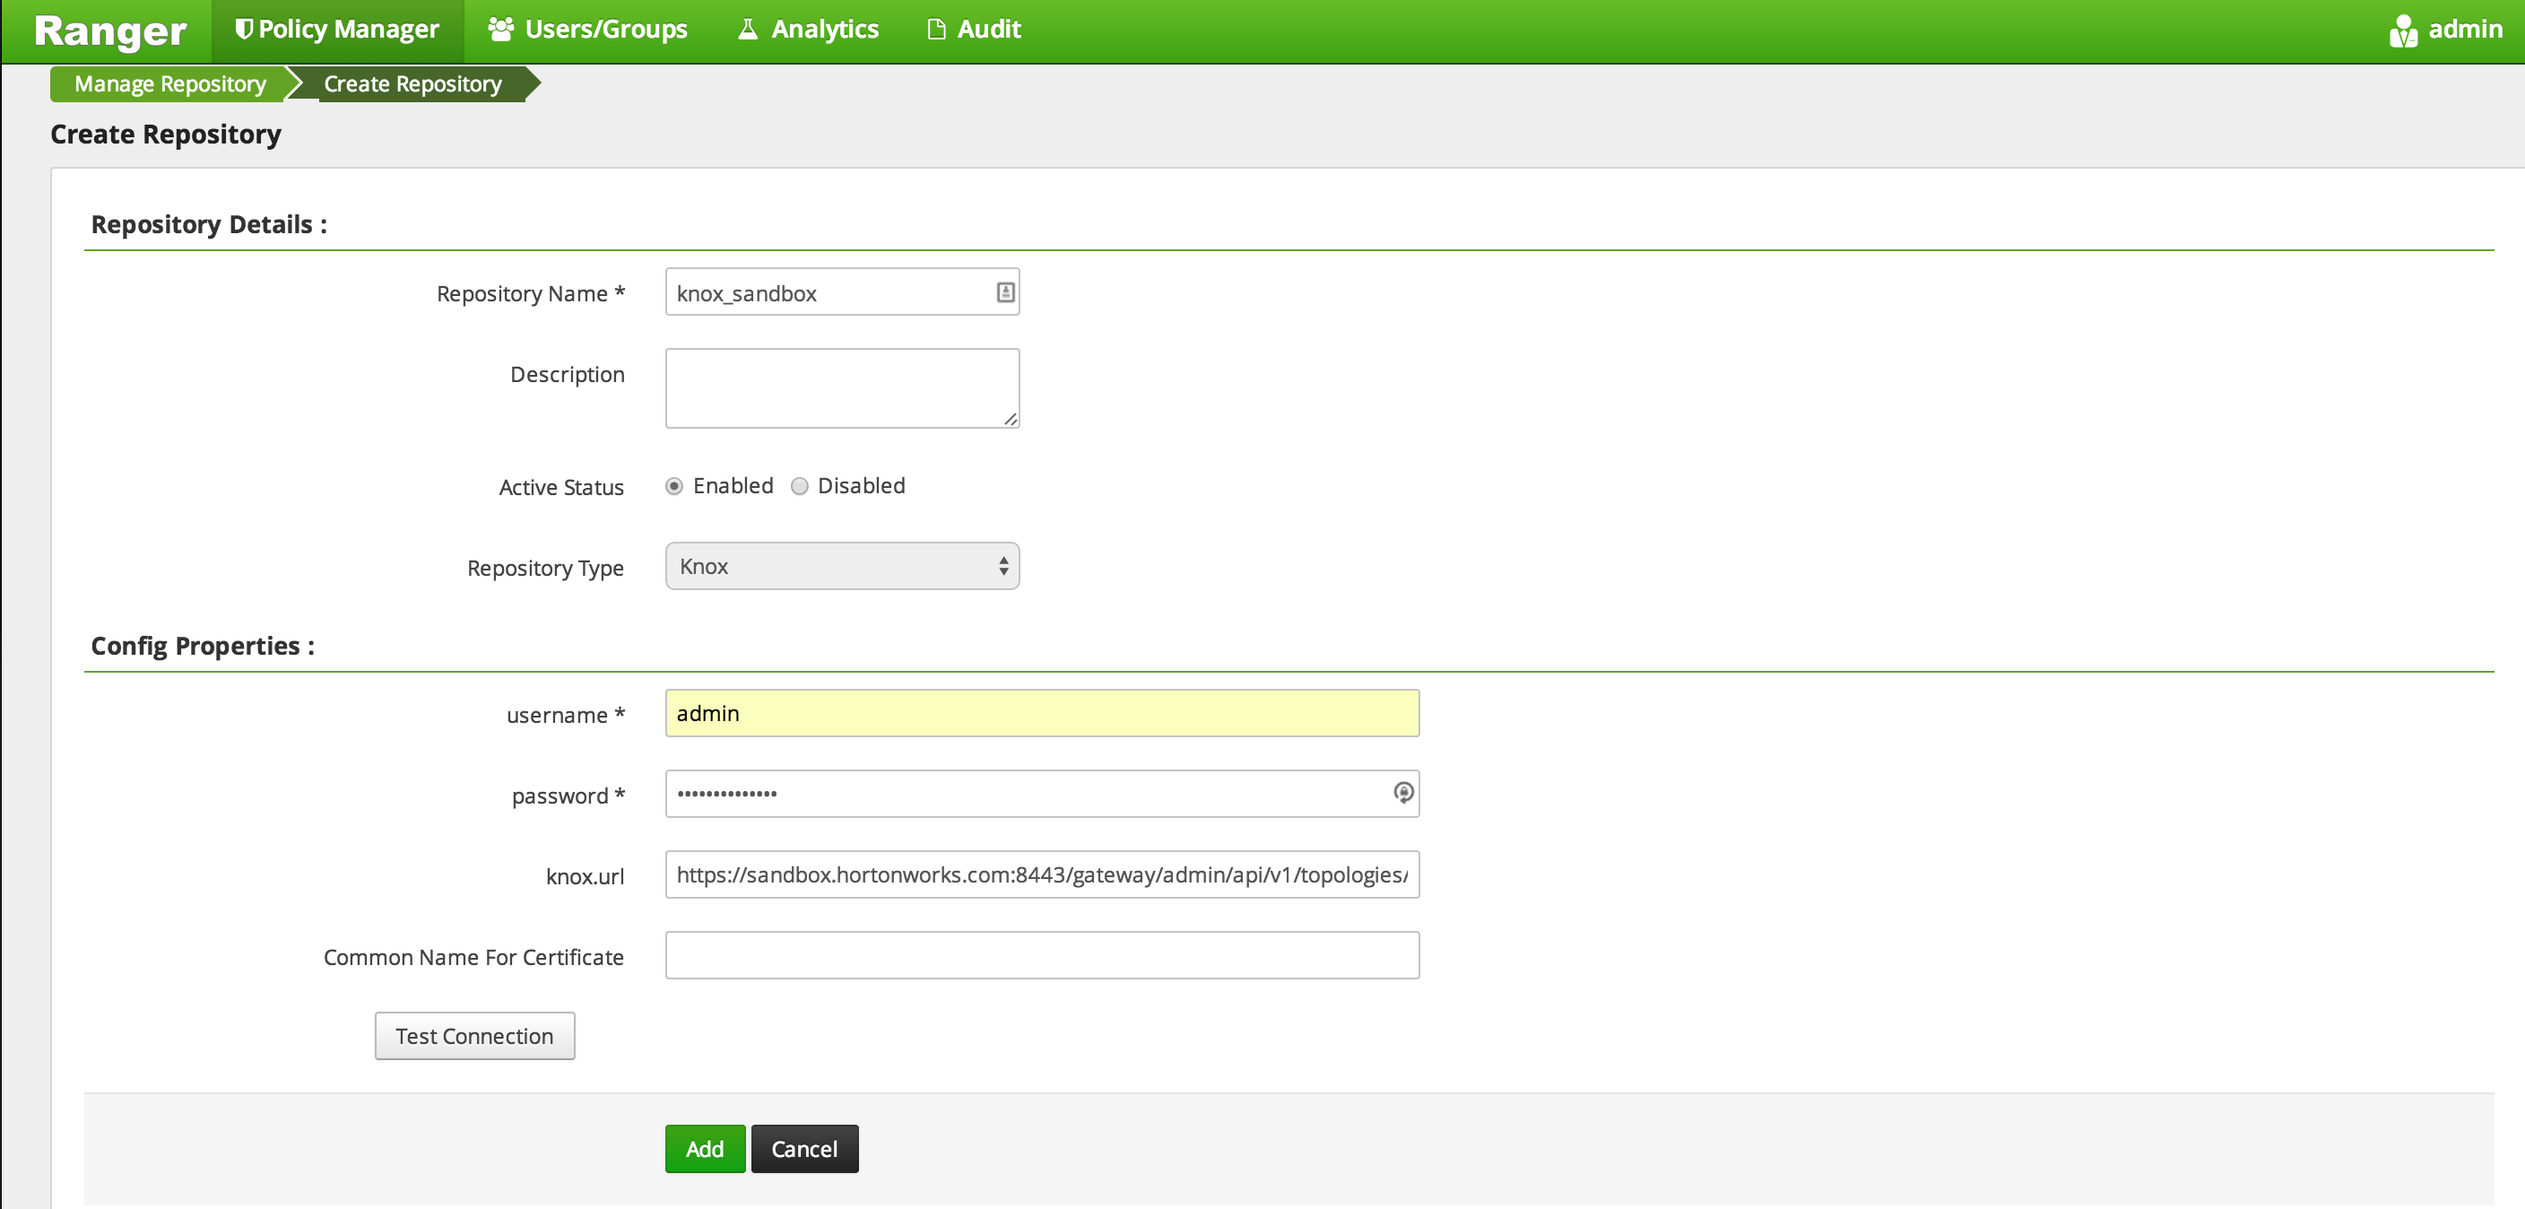
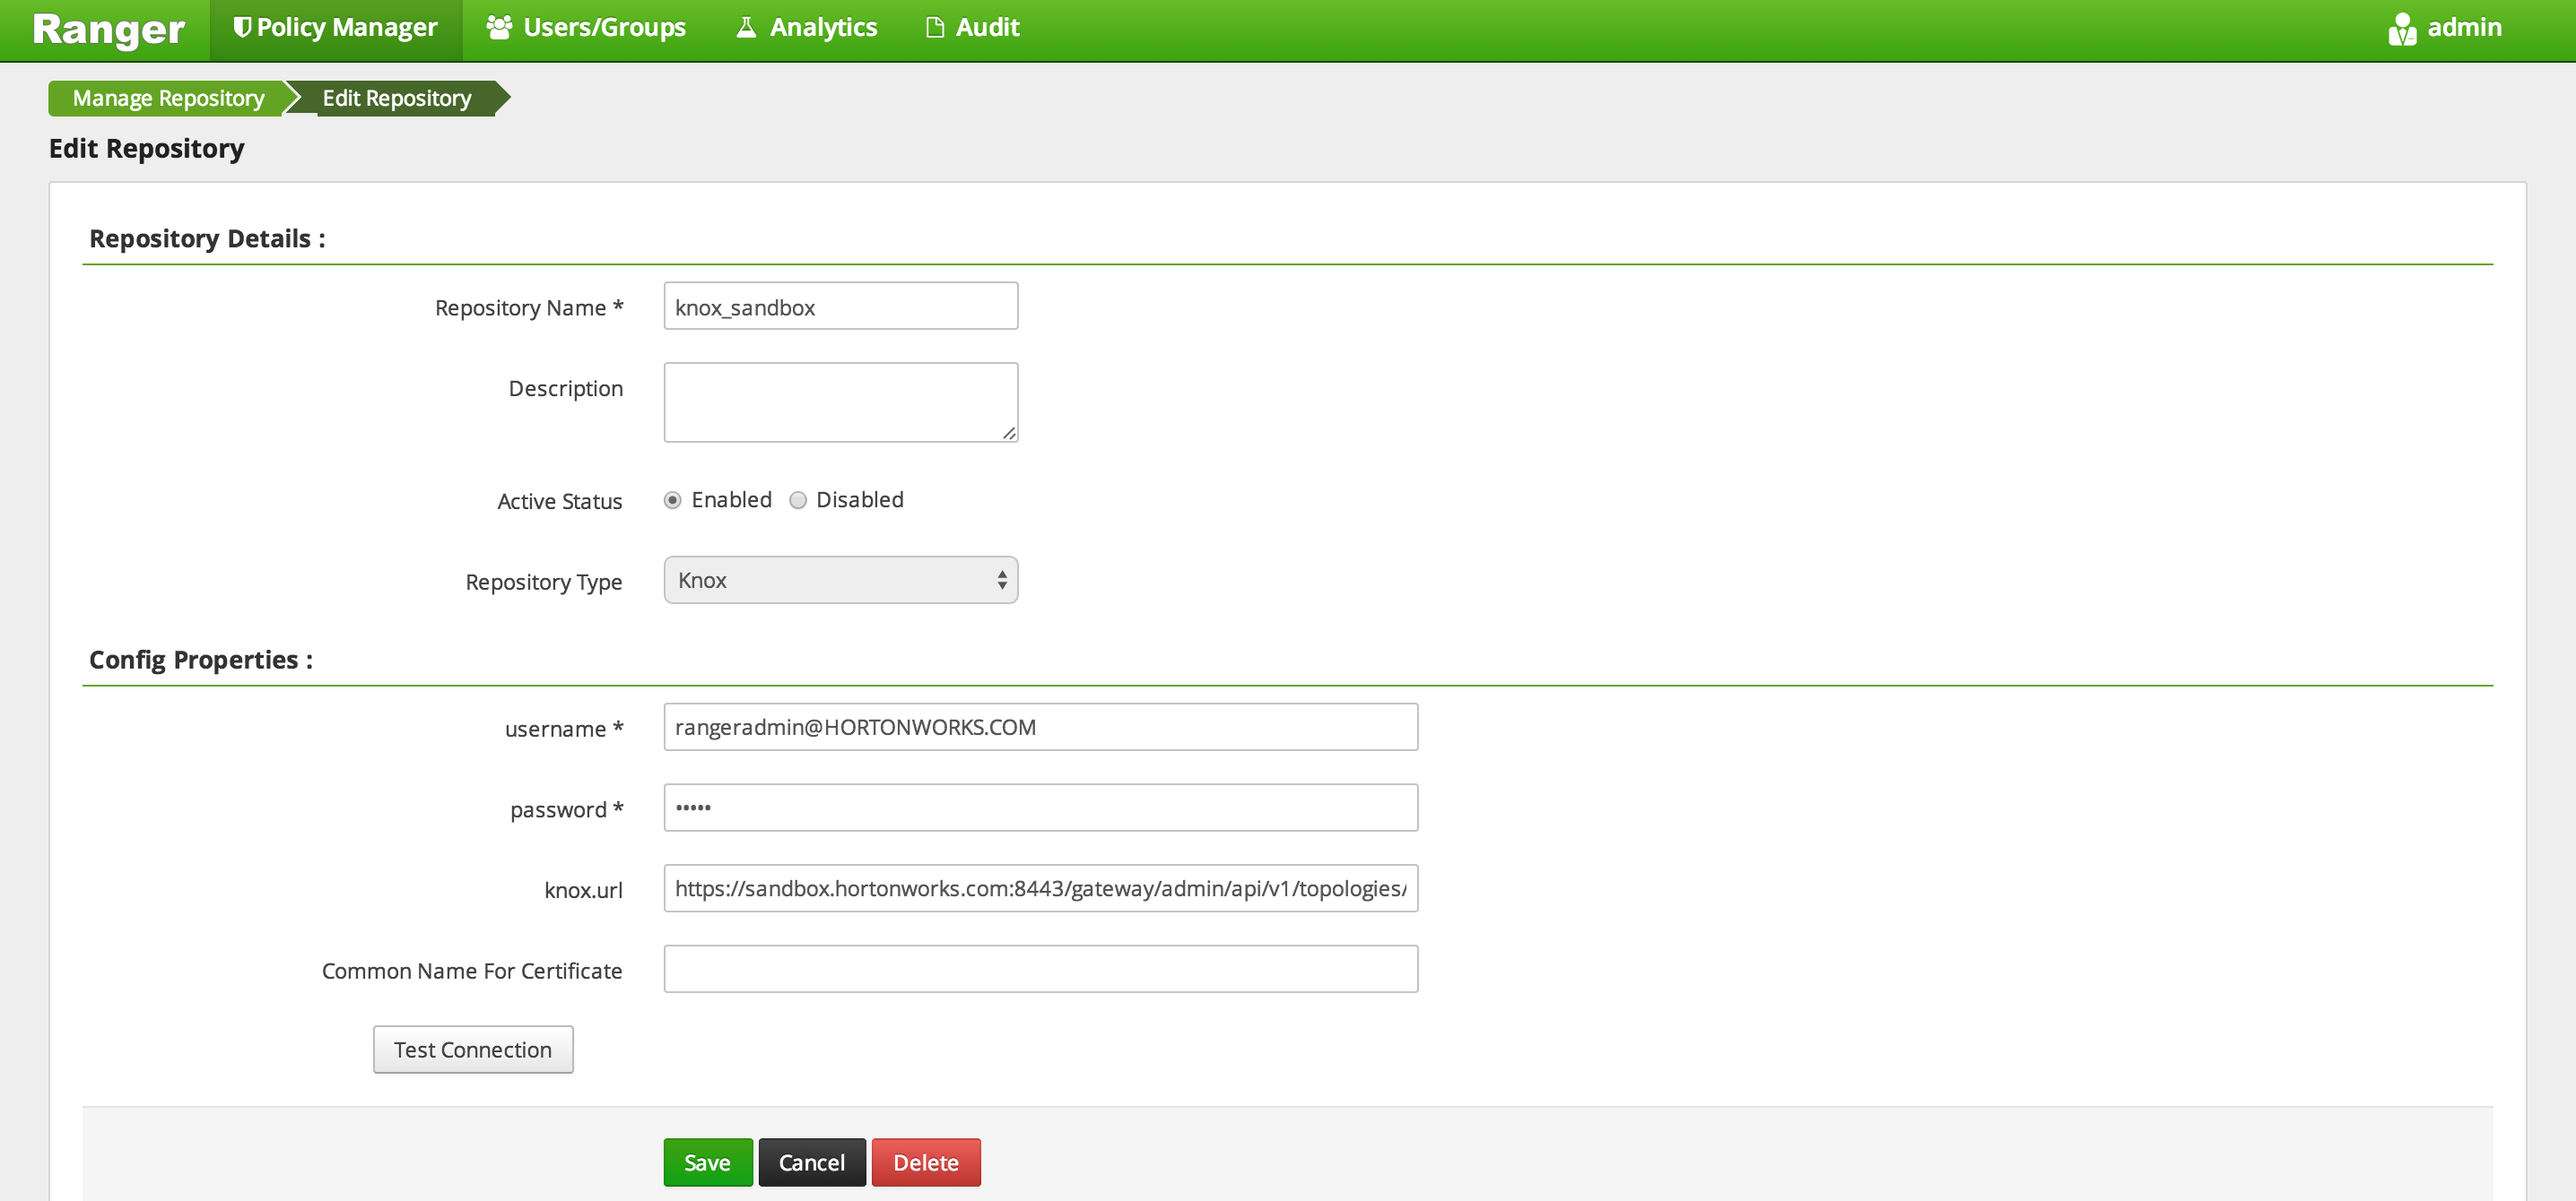
added Knox screenshots

diff --git a/Setup-ranger-22.md b/Setup-ranger-22.md
@@ -542,8 +542,8 @@ hadoop.proxyuser.knox.hosts = sandbox.hortonworks.com
 
 ```
 Repository Name: knox_sandbox
-username: admin
-password: admin-password
+Username: rangeradmin@HORTONWORKS.COM
+Password: hortonworks
 knox.url= https://sandbox.hortonworks.com:8443/gateway/admin/api/v1/topologies/
 ```
 ![Image](../master/screenshots/ranger-knox-setup.png?raw=true)
@@ -572,7 +572,7 @@ XAAUDIT.DB.PASSWORD=hortonworks
 ./enable-knox-plugin.sh
 ```
 
-- In Ambari, under Knox > Configs > Advanced Topology, add the below under  <gateway> and restart Knox
+- In Ambari, under Knox > Configs > Advanced Topology, add the below under  <gateway>
 ```
 	<provider>
 		<role>authorization</role>
@@ -580,6 +580,24 @@ XAAUDIT.DB.PASSWORD=hortonworks
         <enabled>true</enabled>
 	</provider>
 ```
+- Also, in the same place, point Knox to our LDAP by changing the values for main.ldapRealm.userDnTemplate and  main.ldapRealm.contextFactory.url
+```
+                    <param>
+                        <name>main.ldapRealm.userDnTemplate</name>
+                        <value>uid={0},cn=users,cn=accounts,dc=hortonworks,dc=com</value> 
+                        <!-- <value>uid={0},ou=people,dc=hadoop,dc=apache,dc=org</value> -->
+                    </param>
+                    <param>
+                        <name>main.ldapRealm.contextFactory.url</name>
+                       <value>ldap://ldap.hortonworks.com:389</value> 
+                        <!--   <value>ldap://{{knox_host_name}}:33389</value> -->
+                    </param>
+```
+- Now redeploy
+```
+/usr/hdp/2.2.0.0-2041/knox/bin/knoxcli.sh redeploy
+```
+
 - Find out your topology name e.g. default
 ```
 ls /etc/knox/conf/topologies/*.xml
@@ -587,8 +605,13 @@ ls /etc/knox/conf/topologies/*.xml
 
 - Submit a WebHDFS request to the topology using curl (replace default with your topology name) 
 ```
-curl -iv -k -u guest:guest-password https://sandbox.hortonworks.com:8443/gateway/default/webhdfs/v1/?op=LISTSTATUS
+curl -iv -k -u ali:hortonworks https://sandbox.hortonworks.com:8443/gateway/default/webhdfs/v1/?op=LISTSTATUS
+curl -iv -k -u paul:hortonworks https://sandbox.hortonworks.com:8443/gateway/default/webhdfs/v1/?op=LISTSTATUS
 ```
+![Image](../master/screenshots/ranger-knox-denied.png?raw=true)
+
+-These should result in HTTP 403 error and should show up as Denied results in Ranger Audit
+
 
 ---------------------
 
